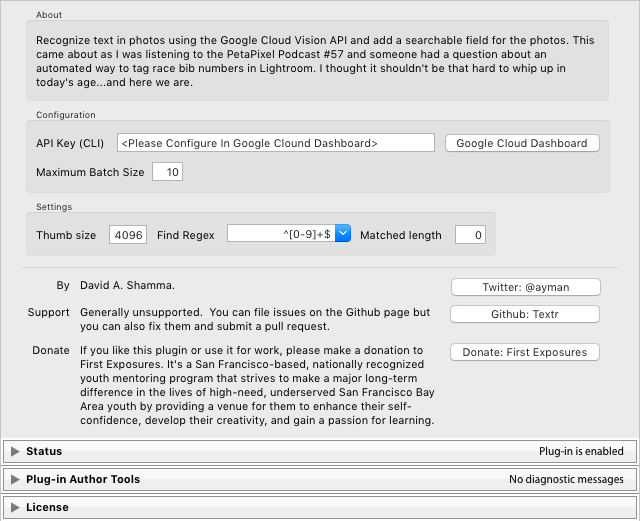
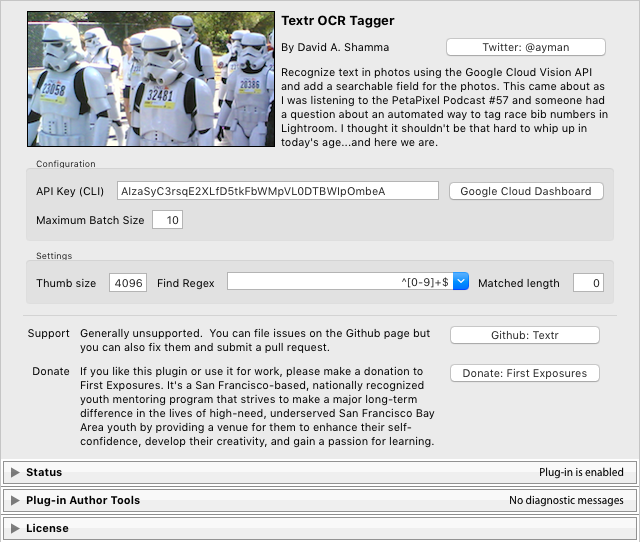
Adding splash photo to prefs page.

Changed region(s): [[0.0312, 0.0, 0.9688, 0.5528], [0.0, 0.4914, 1.0, 0.9827]]

diff --git a/README.md b/README.md
@@ -156,10 +156,13 @@ send me a pull request.
 
 ## Thanks!
 
-Thanks to [Adam Hodges][adam] for giving me permission to use his 
-images here. Check him out at [Adam Hodges Photography][adam].
+Thanks to [Adam Hodges][adam] for giving me permission to use his
+sports images here. Check him out at [Adam Hodges Photography][adam].
+The [Bay To Breakers Storm Troopers photo][b2b] is my own.
 
 [adam]: https://adamhodges.com/ "Adam Hodges Photography"
+
+[b2b]: Bay To Breakers Storm Troopers photo "Bay to breakers 2007"
 
 ## License ##
 
